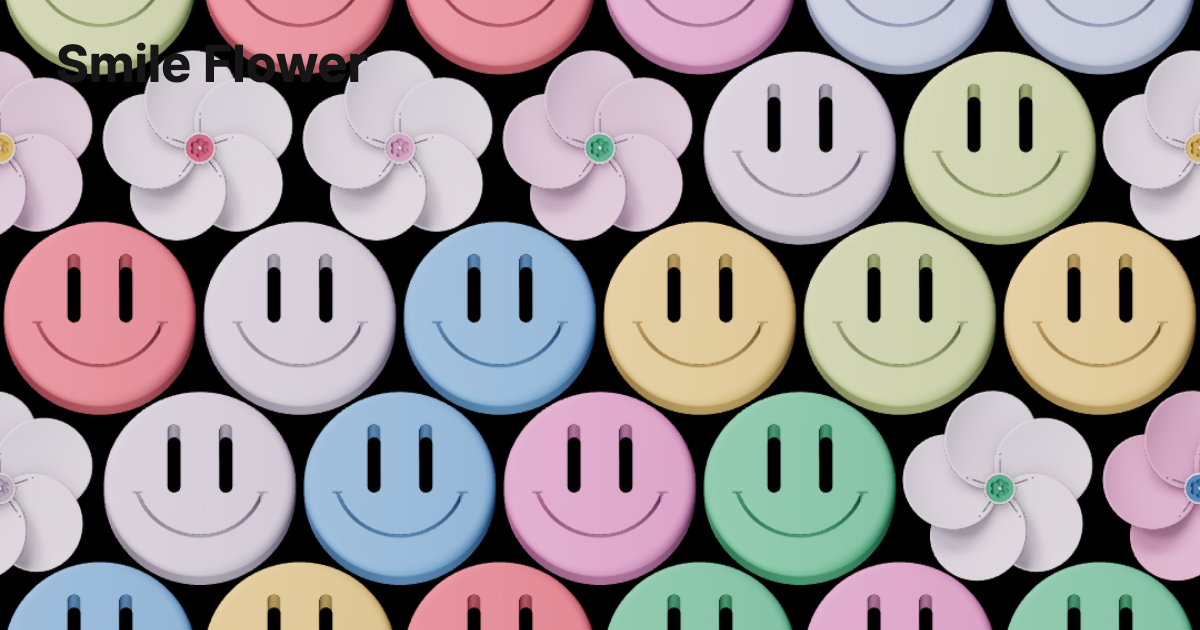
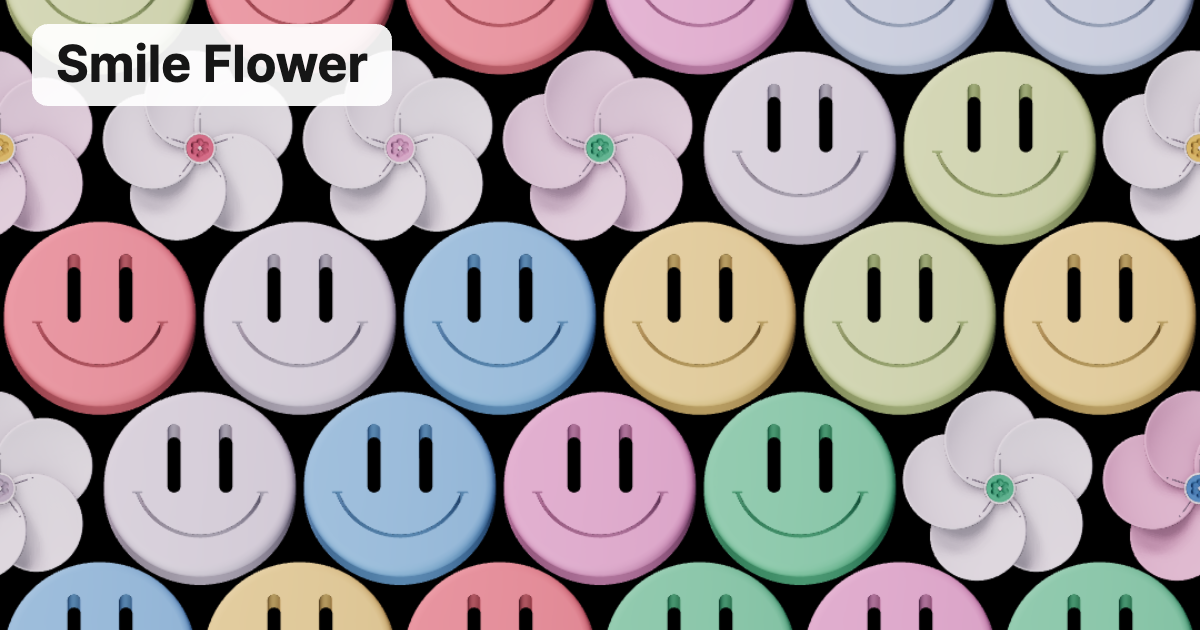
fix(smile-flower): improve social title contrast

Changed region(s): [[0.0, 0.0302, 0.3392, 0.181]]

diff --git a/scripts/smile-flower-social-image.test.ts b/scripts/smile-flower-social-image.test.ts
@@ -1,10 +1,14 @@
 import { expect, test, vi } from 'vitest';
-import { drawSocialImage } from './smile-flower-social-image.mjs';
+import { drawSocialImage, socialImage } from './smile-flower-social-image.mjs';
 
 test('uses the standard Smile Flower title typography and position', () => {
   const context = {
     canvas: { width: 0, height: 0 },
     drawImage: vi.fn(),
+    measureText: vi.fn(() => ({ width: 320 })),
+    beginPath: vi.fn(),
+    roundRect: vi.fn(),
+    fill: vi.fn(),
     fillText: vi.fn(),
     textBaseline: '',
     textAlign: '',
@@ -16,5 +20,8 @@ test('uses the standard Smile Flower title typography and position', () => {
 
   expect(context.font).toBe('700 52px "Pretendard Variable"');
   expect(context.fillStyle).toBe('#161616');
+  expect(socialImage.labelBackground).toBe('rgba(255, 255, 255, 0.92)');
+  expect(context.roundRect).toHaveBeenCalledExactlyOnceWith(32, 24, 368, 82, 16);
+  expect(context.fill).toHaveBeenCalledOnce();
   expect(context.fillText).toHaveBeenCalledExactlyOnceWith('Smile Flower', 56, 82);
 });

diff --git a/docs/artworks/smile-flower/social-share-image.md b/docs/artworks/smile-flower/social-share-image.md
@@ -2,7 +2,7 @@
 
 기존 Chrome에서 실제 작품을 렌더링하고, 모델 비율을 유지한 가운데 구간을 1200×630 비율로 확대·크롭한 원본은 `pages/smile-flower/assets/og-artwork.png`에 보존한다. 최종 `og-image.png`는 화면을 가득 채운 원본 위 왼쪽 상단에 `Smile Flower` 제목만 합성한다.
 
-제목은 Pretendard Variable 52px, 굵기 700(Bold)을 사용한다. 왼쪽 여백은 56px, 글자 기준선은 위에서 82px이며 밝은 꽃 위에서 읽히도록 색상은 `#161616`이다. 정확한 굵기가 실제 윤곽에 반영되도록 `pages/smile-flower/assets/PretendardVariable.woff2`를 사용한다. 이 값들은 공통 가이드의 기본 제목 규칙을 따른다.
+제목은 Pretendard Variable 52px, 굵기 700(Bold)을 사용한다. 왼쪽 여백은 56px, 글자 기준선은 위에서 82px이며 색상은 `#161616`이다. 복잡한 꽃과 스마일 위에서도 읽히도록 제목 뒤에는 `rgba(255, 255, 255, 0.92)` 배경을 두고, 좌우 24px 패딩과 16px radius를 적용한다. 정확한 굵기가 실제 윤곽에 반영되도록 `pages/smile-flower/assets/PretendardVariable.woff2`를 사용한다.
 
 ## 재생성
 
